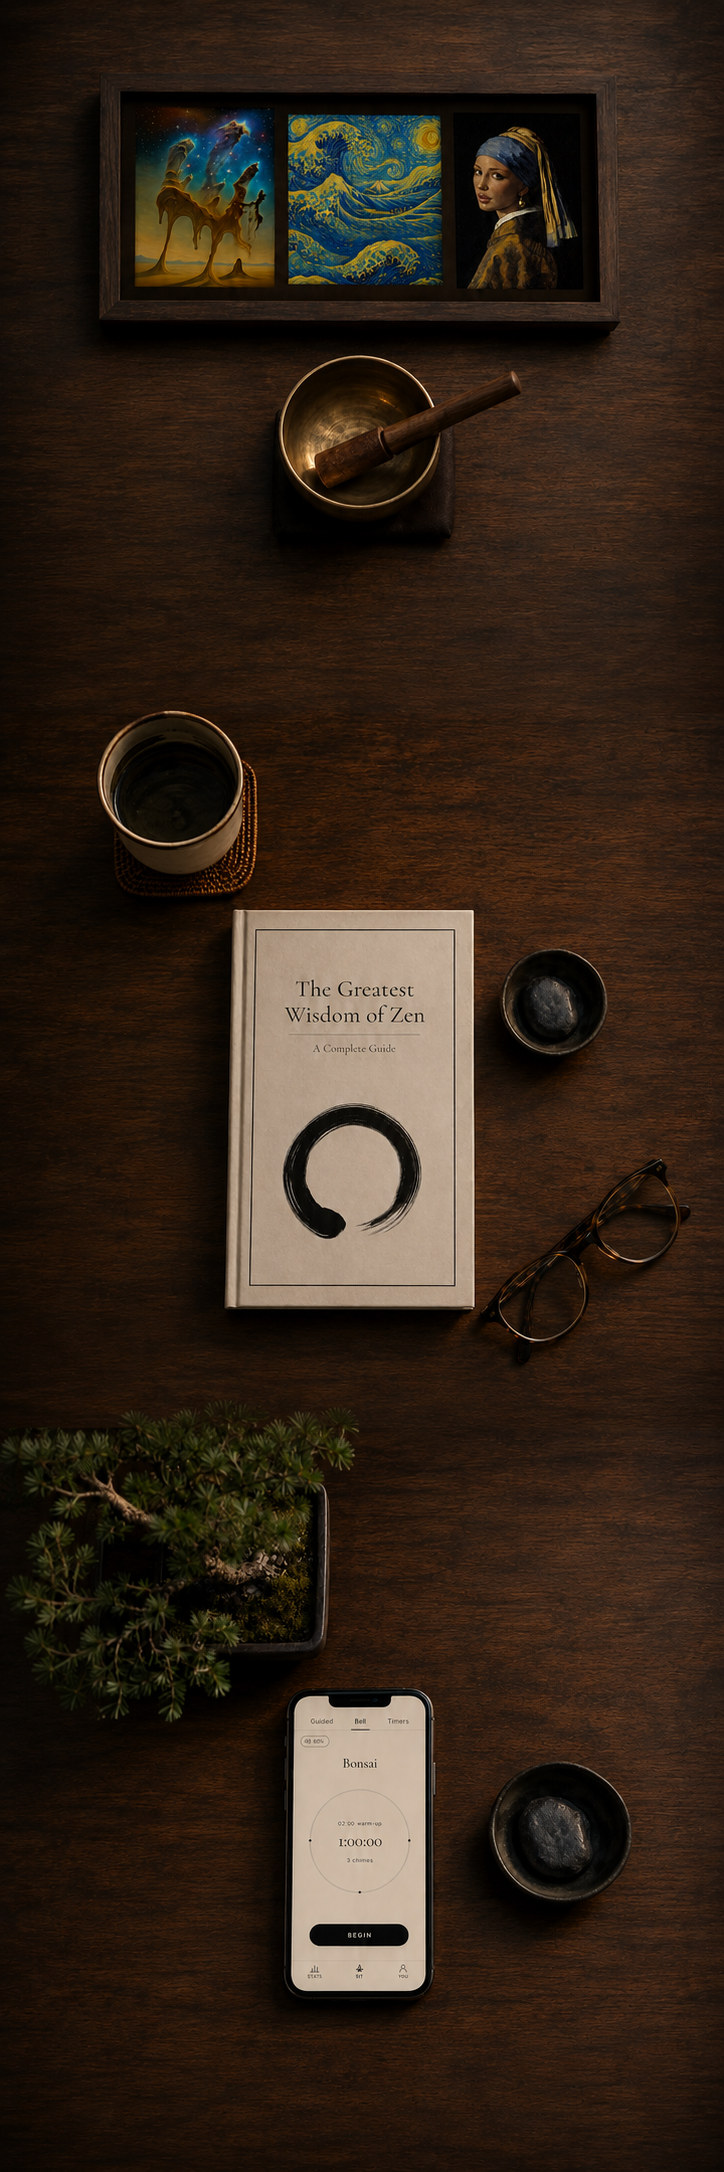
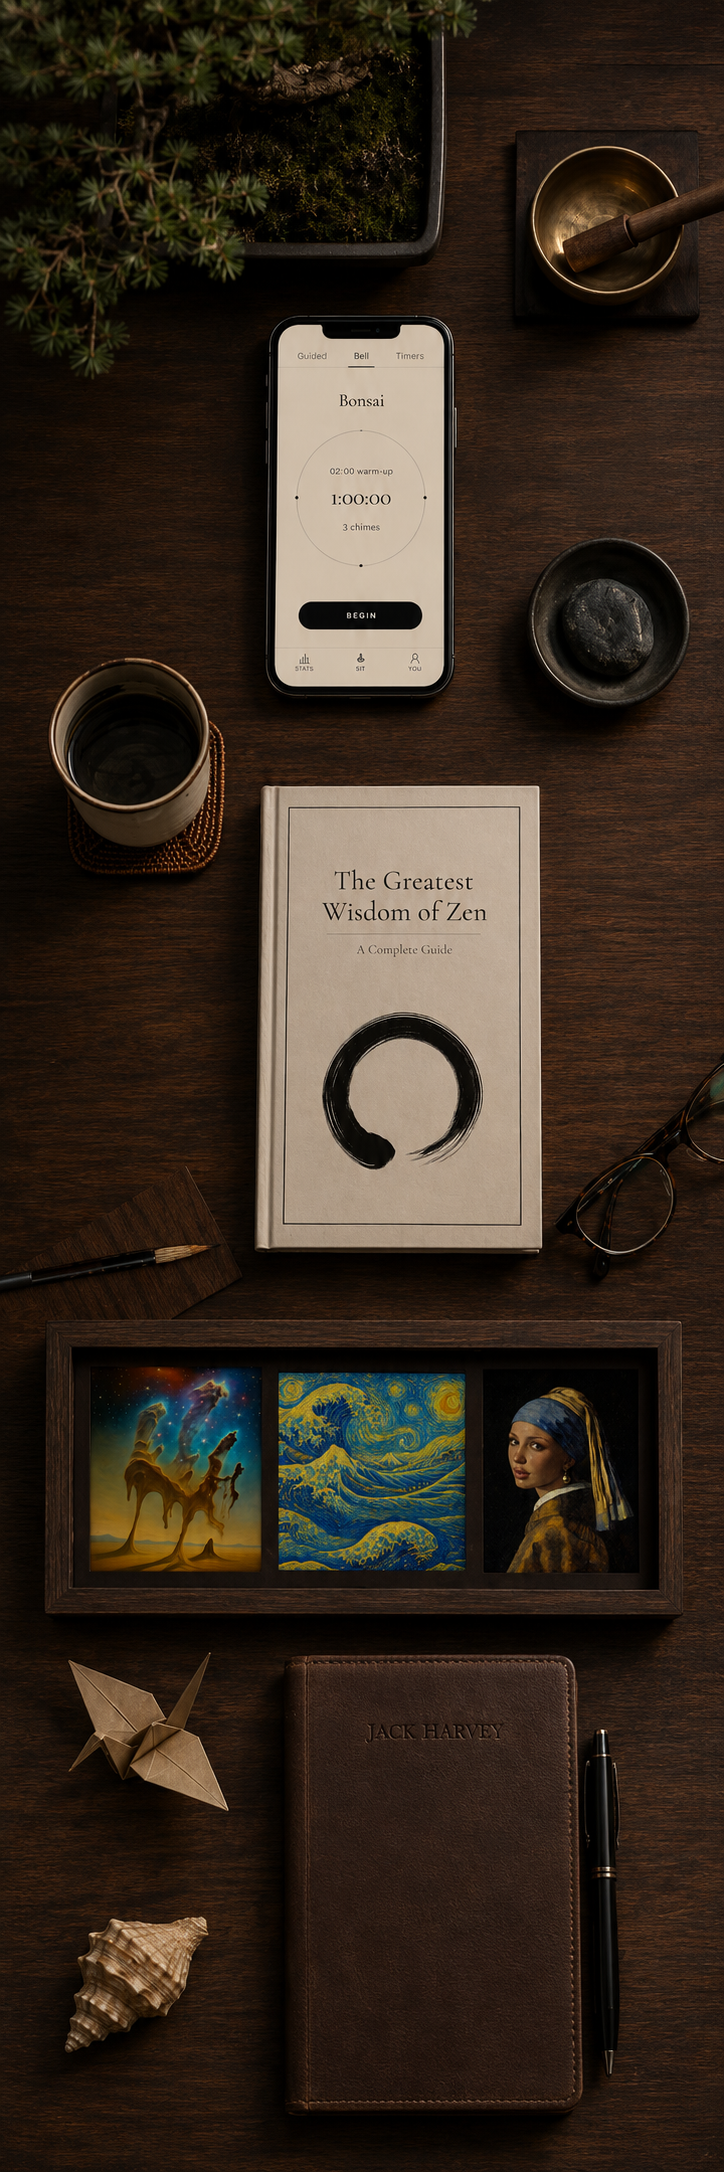
Swap mobile background photo again; retune tap zones; fix About talents inline text; clarify subtitle field
New mobile photo (public/desk-mobile.png) has a completely different
composition/order than the last one (App phone near top, then Book, then
NFT frame, then the About notebook at the bottom) — MOBILE_TEST_SPOTS in
data.ts retuned to match.

About card "Other Talents & Interests": the bold title and the following
detail text were duplicated (once bold in Title, once unbold underneath in
Description) because Studio's Subtitle field was mislabeled "below the
title" when the component actually renders it inline right after Title.
Moved the detail text into Subtitle for both entries, cleared the
duplicate Description, and fixed the Studio field descriptions so this
doesn't happen again. Schema redeployed.

diff --git a/src/sanity/schemaTypes/homepageSettings.ts b/src/sanity/schemaTypes/homepageSettings.ts
@@ -496,14 +496,15 @@ export const homepageSettings = defineType({
                       name: 'subtitle',
                       title: 'Subtitle',
                       type: 'string',
-                      description: 'Optional subtitle line below the title',
+                      description:
+                        'Optional — renders inline right after the Title, on the same line, not bolded (e.g. "Meditation" + this). For a separate line below instead, use Description.',
                     }),
                     defineField({
                       name: 'description',
                       title: 'Description',
                       type: 'text',
                       rows: 4,
-                      description: 'Freeform text — write however you like.',
+                      description: 'Optional — a separate paragraph below the title/subtitle line. Leave blank if Subtitle already says everything you need.',
                     }),
                   ],
                   preview: {

diff --git a/src/components/desk/data.ts b/src/components/desk/data.ts
@@ -156,10 +156,10 @@ export interface MobileTestSpot {
 }
 
 export const MOBILE_TEST_SPOTS: MobileTestSpot[] = [
-  { id: "nft", num: "3", word: "NFTs", left: 8, top: 3, width: 84, height: 12 },
-  { id: "about", num: "", word: "About Me", left: 35, top: 15, width: 40, height: 10 },
-  { id: "book", num: "2", word: "Book", left: 10, top: 30, width: 80, height: 30 },
-  { id: "app", num: "1", word: "App", left: 0, top: 62, width: 92, height: 36 },
+  { id: "app", num: "1", word: "App", left: 30, top: 13, width: 38, height: 19 },
+  { id: "book", num: "2", word: "Book", left: 24, top: 33, width: 56, height: 24 },
+  { id: "nft", num: "3", word: "NFTs", left: 5, top: 59, width: 90, height: 14 },
+  { id: "about", num: "", word: "About Me", left: 28, top: 74, width: 58, height: 24 },
 ]
 
 // Fallback imagery cropped from the desk photo — shown until the matching

diff --git a/CLAUDE.md b/CLAUDE.md
@@ -79,6 +79,7 @@ It costs the live site nothing: the tool compiles to its own ~14KB chunk referen
 - Book cover is deliberately cropped `aspect-[3/4]` — Jack's upload is a 3:2 landscape photo, so this crops in rather than padding out. The cover drives the card's height, so it's the lever for "make the Book card taller": it fills a `31.5rem` column (lg+) = 672px tall, with `max-h-[77dvh]` as the short-laptop cap. It **no longer matches the App card's phone height** — that pairing was retired on 2026-08-17 when Jack asked for the Book card ~15% taller (27.5rem/587px → 31.5rem/672px). The modal's own width is unchanged; the text column just narrows. `bookSubtitle` has **no code fallback**; it renders only if set.
 - The App card plays `appGongSound` **once on open, on both the Desk and `/classic`**. The Desk uses a mount effect (the card only mounts when opened) with cleanup that stops a gong still ringing when the card closes.
 - About card has **no eyebrow above the name**. Layout is an **identity banner** — photo left, name + tagline + socials on one line beside it, intro under them — with Experience, Talents and the mailing list stacked **full-width beneath**, not alongside the photo (Jack, 2026-08-17). Social buttons are `h-12 w-12`; the ✉ toggles the contact form into the full-width area below.
+- **Other Talents & Interests entries** (`logoFreeformEntries`): `title` (bold) and `subtitle` (unbold) render **inline on one line** — `subtitle` is the field for "next to the title," despite its Studio label once implying otherwise (fixed 2026-09-02). `description` is a *separate* field that renders as its own paragraph on the line below; leave it blank unless you actually want a second line under the inline one. Don't put the same text in both — that was the bug Jack hit (title held the whole string, description repeated it).
 - The name/socials row sits `mt-5` below the grid's top edge (nudged down from flush-with-the-photo on 2026-08-20 — "just a tad," not a measured value), **not** pinned to the photo's top edge — don't reintroduce `self-start` on the socials or you'll silently undo this. On desktop the socials are centred to the **name specifically** (an `order-1`/`order-2` flex-wrap trick: name + socials share the first line via `items-center`, and the tagline is forced onto its own full-width second line via `md:w-full` + `order-3`) — not to the whole name+tagline block, which is how it looked before 2026-09-02 and read as visually low. Mobile is untouched: name, tagline, socials stack in that DOM order regardless of the `order-*` classes, since mobile never wraps to a second line.
 - **Primary buttons are solid black from the start** — never outline-that-fills-on-hover, and hover must not invert to white (Jack, 2026-08-17). One shared `solidButton` class in `cards/shared.tsx` covers every card CTA plus Send Message and Subscribe; hover lifts, deepens the shadow, warms to `neutral-800`, and nudges the arrow. Change it there, not per-button. `ActionButton` also has a `link` variant — underlined text + ↗, no box — used as the quieter second option beside a solid button (the Book card's Website link).
 - Book card shows **two actions**: the solid CTA (`bookButton*`) and, when `bookWebsiteButtonUrl` is set, the underlined `link` beside it (`bookWebsiteButton*`, Desk only). Blank URL hides the link entirely.
